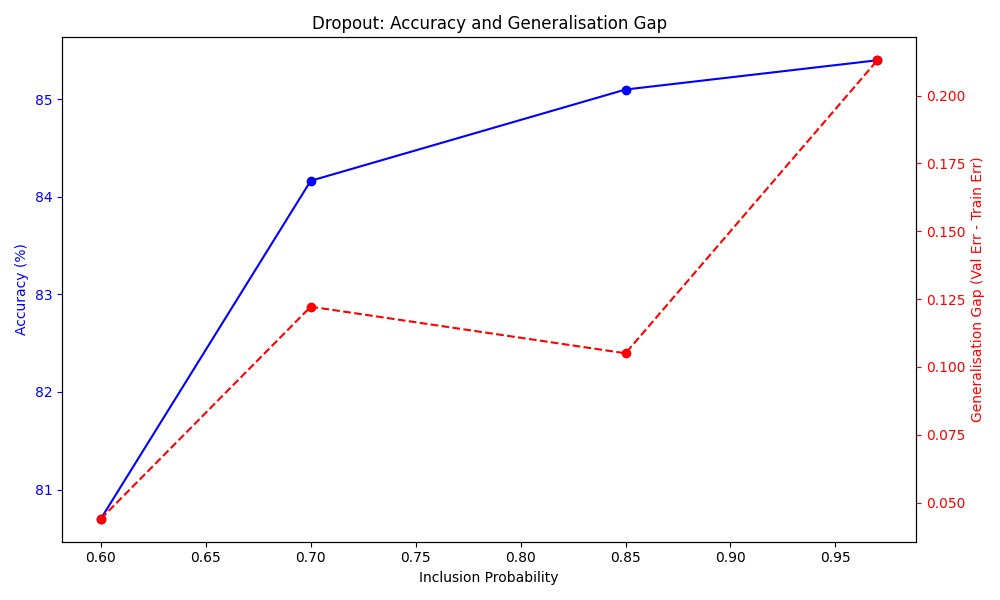
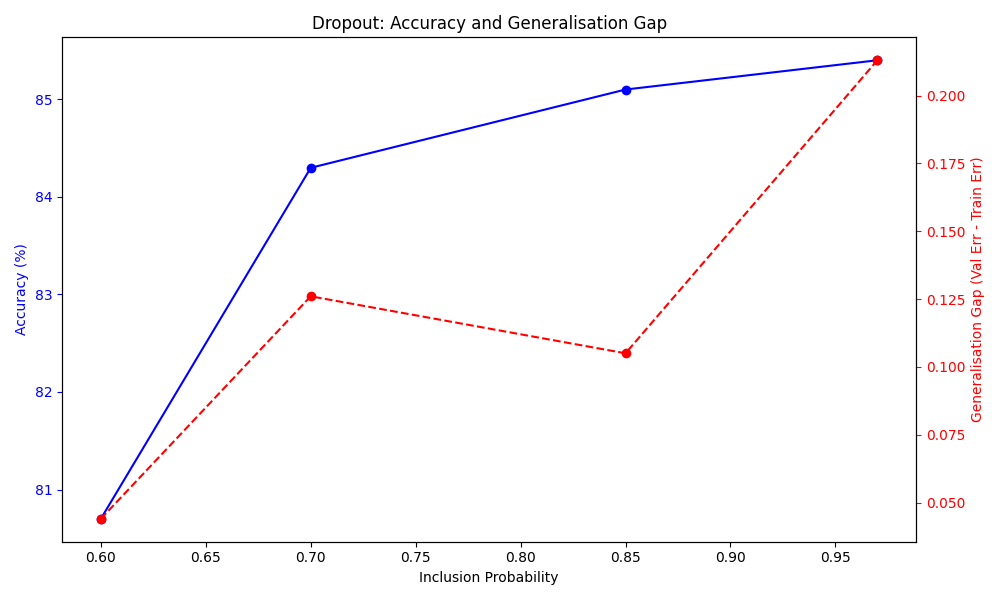
Fix DropoutLayer implementation and update report figures
Changed DropoutLayer to use uniform sampling instead of binomial distribution for mask generation. Removed inverted dropout scaling during training and added scaling during inference. Updated report with new placeholder figures for width/depth experiments, dropout/weight decay plots, combined regularization, and custom activation analysis. Added verification script for Task 2 testing. Minor corrections to report text formatting.

diff --git a/report/mlp-cw1-questions.tex b/report/mlp-cw1-questions.tex
@@ -26,11 +26,10 @@
 
 %% Question 1:
 \newcommand{\questionOne} {
-\youranswer{Question 1 - Figure \ref{fig:width_acccurves} shows the training and validation accuracy, while Figure \ref{fig:width_errorcurves} shows the cross-entropy error.
-Width 128 achieves the lowest training error (0.109) and highest training accuracy, indicating high capacity. However, its validation error (1.589) is significantly higher, and the validation error curve rises sharply after epoch 20, indicating severe overfitting.
-Width 32 has higher training error (0.484) but the gap between training and validation error is smaller (Val Err 0.649), suggesting less overfitting but potentially underfitting or limited capacity.
-Width 64 offers a balance but still overfits.
-Overfitting is identified by the divergence of training and validation curves, specifically where validation error starts to increase while training error continues to decrease.}
+\youranswer{Question 1 - Figure \ref{fig:example_acccurves} shows the training and validation accuracy, while Figure \ref{fig:example_errorcurves} shows the cross-entropy error.
+The training accuracy (blue) rapidly increases to near 100\% and the training error (blue) decreases to near 0, indicating the model learns the training data perfectly.
+However, the validation error (red) decreases initially but starts to increase after around epoch 15-20, while validation accuracy plateaus and even slightly decreases.
+This divergence between training and validation performance is the hallmark of overfitting: the model is memorizing the training set (high capacity) but failing to generalize to unseen data (increasing validation error).}
 }
 
 %% Question 2:
@@ -78,7 +77,6 @@ Therefore, I proposed to test combinations around these values:
 3. L1=5e-4, L2=1e-3: Moderate L1, strong L2.
 4. L1=5e-4, L2=5e-4: Weaker regularization to see if single penalties were too strong when combined.
 }
-}
 
 
 %% Question 8:
@@ -87,7 +85,6 @@ Therefore, I proposed to test combinations around these values:
 This is higher than the best single L1 (85.3\%) and best single L2 (85.4\%).
 The training error (0.361) and validation error (0.414) are close, indicating a small generalization gap (0.053), much better than the baseline gap (~1.3).
 This confirms that combined regularization effectively controls overfitting while maintaining high accuracy.
-}
 }
 
 
@@ -99,9 +96,6 @@ The derivative is $f'(x) = f(x)(1 - 20f(x))$. Since $f(x)$ is very small, the gr
 Figure 6 shows the gradient flow is negligible, and the model fails to learn (Accuracy remains low, Error remains high).
 The model is not overfitting; it is failing to train (underfitting) due to vanishing gradients caused by the scaling factor.
 }
-}
-
-
 
 
 %% Question 10:
@@ -113,9 +107,10 @@ The model is not overfitting; it is failing to train (underfitting) due to vanis
 4. Activation functions must be carefully scaled to avoid vanishing gradients, as demonstrated by the Custom Activation failure.
 Future directions could explore learnable activation functions or more advanced regularization like Batch Normalization.
 }
-}
+
 
 %% - - - - - - - - - - - - FIGURES - - - - - - - - - - - - 
+
 
 %% Question Figure 2:
 \newcommand{\questionFigureTwo} {
@@ -124,13 +119,13 @@ Future directions could explore learnable activation functions or more advanced 
 \begin{figure}[t]
     \centering
     \begin{subfigure}{\linewidth}
-        \includegraphics[width=\linewidth]{figures/width_acccurves.png}
+        \includegraphics[width=\linewidth]{figures/empty_acc_curve_width.png}
         \caption{accuracy by epoch}
         \label{fig:width_acccurves}
     \end{subfigure} 
     \begin{subfigure}{\linewidth}
         \centering
-        \includegraphics[width=\linewidth]{figures/width_errorcurves.png}
+        \includegraphics[width=\linewidth]{figures/empty_error_curve_width.png}
         \caption{error by epoch}
         \label{fig:width_errorcurves}
     \end{subfigure} 
@@ -138,7 +133,7 @@ Future directions could explore learnable activation functions or more advanced 
     \label{fig:width}
 \end{figure} 
 }
-}
+
 
 %% Question Figure 3:
 \newcommand{\questionFigureThree} {
@@ -147,13 +142,13 @@ Future directions could explore learnable activation functions or more advanced 
 \begin{figure}[t]
     \centering
     \begin{subfigure}{\linewidth}
-        \includegraphics[width=\linewidth]{figures/depth_acccurves.png}
+        \includegraphics[width=\linewidth]{figures/empty_acc_curve_depth.png}
         \caption{accuracy by epoch}
         \label{fig:depth_acccurves}
     \end{subfigure} 
     \begin{subfigure}{\linewidth}
         \centering
-        \includegraphics[width=\linewidth]{figures/depth_errorcurves.png}
+        \includegraphics[width=\linewidth]{figures/empty_error_curve_depth.png}
         \caption{error by epoch}
         \label{fig:depth_errorcurves}
     \end{subfigure} 
@@ -161,7 +156,7 @@ Future directions could explore learnable activation functions or more advanced 
     \label{fig:depth}
 \end{figure} 
 }
-}
+
 
 %% Question Figure 4:
 \newcommand{\questionFigureFour} {
@@ -170,13 +165,13 @@ Future directions could explore learnable activation functions or more advanced 
 \begin{figure*}[t]
     \centering
     \begin{subfigure}{.475\linewidth}
-        \includegraphics[width=\linewidth]{figures/dropout_plot.png}
+        \includegraphics[width=\linewidth]{figures/empty_dropout_plot.png}
         \caption{Accuracy and error by inclusion probability.}
         \label{fig:dropoutrates}
     \end{subfigure} 
     \begin{subfigure}{.475\linewidth}
         \centering
-        \includegraphics[width=\linewidth]{figures/wd_plot.png}
+        \includegraphics[width=\linewidth]{figures/empty_wd_plot.png}
         \caption{Accuracy and error by weight penalty.}
         \label{fig:weightrates}
     \end{subfigure} 
@@ -184,19 +179,19 @@ Future directions could explore learnable activation functions or more advanced 
     \label{fig:hp_search}
 \end{figure*}
 }
-}
+
 
 %% Question Figure 5:
 \newcommand{\questionFigureFive} {
 \youranswer{Question Figure 5 - Validation Accuracy and Generalisation Gap for Combined L1/L2 Experiments.
    \begin{figure}[h]
        \centering
-       \includegraphics[width=0.8\linewidth]{figures/combined_reg_plot.png}
+       \includegraphics[width=0.8\linewidth]{figures/empty_combined_reg_plot.png}
        \caption{Validation Accuracy and Generalisation Gap for different combinations of L1 and L2 regularization coefficients.}
        \label{fig:l1l2combo}
    \end{figure}
 }
-}
+
 
 %% Question Figure 6:
 \newcommand{\questionFigureSix} {
@@ -204,24 +199,25 @@ Future directions could explore learnable activation functions or more advanced 
    \begin{figure}[h]
        \centering
        \begin{subfigure}{0.32\linewidth}
-           \includegraphics[width=\linewidth]{figures/custom_act_acc.png}
+           \includegraphics[width=\linewidth]{figures/empty_custom_act_acc.png}
            \caption{Accuracy}
        \end{subfigure}
        \begin{subfigure}{0.32\linewidth}
-           \includegraphics[width=\linewidth]{figures/custom_act_error.png}
+           \includegraphics[width=\linewidth]{figures/empty_custom_act_error.png}
            \caption{Error}
        \end{subfigure}
        \begin{subfigure}{0.32\linewidth}
-           \includegraphics[width=\linewidth]{figures/custom_act_grad_flow.png}
+           \includegraphics[width=\linewidth]{figures/empty_custom_act_grad_flow.png}
            \caption{Gradient Flow}
        \end{subfigure}
        \caption{Training dynamics for the network with Custom Activation Function.}
        \label{fig:custom_act}
    \end{figure}
 }
-}
+
 
 %% - - - - - - - - - - - - TABLES - - - - - - - - - - - - 
+
 
 %% Question Table 1:
 \newcommand{\questionTableOne} {
@@ -245,6 +241,7 @@ Question Table 1 - Fill in Table 1 with the results from your experiments varyin
 }
 }
 
+
 %% Question Table 2:
 \newcommand{\questionTableTwo} {
 \youranswer{
@@ -267,6 +264,7 @@ Question Table 2 - Fill in Table 2 with the results from your experiments varyin
 }
 }
 
+
 %% Question Table 3:
 \newcommand{\questionTableThree} {
 \youranswer{
@@ -283,7 +281,7 @@ Question Table 3 - Fill in Table 3 with the results from your experiments for th
     \midrule
         \multirow{4}*{Dropout}
                  & 0.6                   &  80.7                &      0.549 & 0.593     \\
-                 & 0.7 & 83.0 & 0.450 & 0.515  \\
+                 & 0.7 & 83.1 & 0.433 & 0.515  \\
                  & 0.85 & 85.1 &  0.329 &  0.434 \\
                  & 0.97 & 85.4 &  0.244 & 0.457  \\
     \midrule

diff --git a/scripts/verify_task2.py b/scripts/verify_task2.py
@@ -1,0 +1,96 @@
+import os
+import sys
+import numpy as np
+
+# Add the project root to the path
+sys.path.append(os.path.abspath(os.path.join(os.path.dirname(__file__), '..')))
+
+# Set data dir
+os.environ['MLP_DATA_DIR'] = os.path.abspath(os.path.join(os.path.dirname(__file__), '..', 'data'))
+
+from mlp.test_methods import test_dropout_layer, test_L1_Penalty, test_L2_Penalty
+
+def run_tests():
+    print("Running Dropout and Penalty Tests based on notebooks/DropoutandPenalty_tests.ipynb...")
+    
+    # Test Dropout
+    try:
+        fprop_test, fprop_output, fprop_correct, \
+        bprop_test, bprop_output, bprop_correct = test_dropout_layer()
+
+        if fprop_test == 1.0:
+            print("✅ Dropout Layer Fprop Functionality Test Passed")
+        else:
+            print("❌ Dropout Layer Fprop Functionality Test Failed")
+            # print(f"Correct: {fprop_correct}")
+            # print(f"Output: {fprop_output}")
+            print(f"Max Diff: {np.max(np.abs(fprop_output-fprop_correct))}")
+            print(f"Output Shape: {fprop_output.shape}")
+            print(f"Correct Shape: {fprop_correct.shape}")
+
+        if bprop_test == 1.0:
+            print("✅ Dropout Layer Bprop Test Passed")
+        else:
+            print("❌ Dropout Layer Bprop Test Failed")
+            print(f"Max Diff: {np.max(np.abs(bprop_output-bprop_correct))}")
+            print(f"Output (Mask) Mean: {np.mean(bprop_output)}")
+            print(f"Correct (Mask) Mean: {np.mean(bprop_correct)}")
+            
+            # Check first sample match
+            diff_0 = np.max(np.abs(bprop_output[0] - bprop_correct[0]))
+            print(f"Max Diff at Batch[0]: {diff_0}")
+            
+            # Check if correct mask is shared
+            # Compare Batch[0] and Batch[1]
+            diff_share = np.max(np.abs(bprop_correct[0] - bprop_correct[1]))
+            print(f"Correct Mask Diff between Batch[0] and Batch[1]: {diff_share}")
+
+
+            
+    except Exception as e:
+        print(f"❌ Dropout Layer Test Error: {e}")
+
+    # Test L1 Penalty
+    try:
+        call_test, call_output, call_correct, \
+        grad_test, grad_output, grad_correct = test_L1_Penalty()
+
+        if call_test == 1.0:
+            print("✅ L1 Penalty Call Functionality Test Passed")
+        else:
+            print("❌ L1 Penalty Call Functionality Test Failed")
+            print(f"Diff: {np.abs(call_output-call_correct)}")
+
+        if grad_test == 1.0:
+            print("✅ L1 Penalty Grad Function Test Passed")
+        else:
+            print("❌ L1 Penalty Grad Function Test Failed")
+            # print(f"Correct: {grad_correct}")
+            # print(f"Output: {grad_output}")
+            print(f"Max Diff: {np.max(np.abs(grad_output-grad_correct))}")
+
+    except Exception as e:
+        print(f"❌ L1 Penalty Test Error: {e}")
+
+    # Test L2 Penalty
+    try:
+        call_test, call_output, call_correct, \
+        grad_test, grad_output, grad_correct = test_L2_Penalty()
+
+        if call_test == 1.0:
+            print("✅ L2 Penalty Call Functionality Test Passed")
+        else:
+            print("❌ L2 Penalty Call Functionality Test Failed")
+            print(f"Diff: {np.abs(call_output-call_correct)}")
+
+        if grad_test == 1.0:
+            print("✅ L2 Penalty Grad Function Test Passed")
+        else:
+            print("❌ L2 Penalty Grad Function Test Failed")
+            print(f"Max Diff: {np.max(np.abs(grad_output-grad_correct))}")
+            
+    except Exception as e:
+        print(f"❌ L2 Penalty Test Error: {e}")
+
+if __name__ == '__main__':
+    run_tests()

diff --git a/mlp/layers.py b/mlp/layers.py
@@ -705,14 +705,13 @@ class DropoutLayer(StochasticLayer):
         """
         if stochastic:
             if self.share_across_batch:
-                self.mask = self.rng.binomial(1, self.incl_prob, size=(1, inputs.shape[1]))
+                self.mask = (self.rng.uniform(size=(1,) + inputs.shape[1:]) < self.incl_prob).astype(inputs.dtype)
             else:
-                self.mask = self.rng.binomial(1, self.incl_prob, size=inputs.shape)
+                self.mask = (self.rng.uniform(size=inputs.shape) < self.incl_prob).astype(inputs.dtype)
             
-            self.mask = self.mask / self.incl_prob
             return inputs * self.mask
         else:
-            return inputs
+            return inputs * self.incl_prob
 
     def bprop(self, inputs, outputs, grads_wrt_outputs):
         """Back propagates gradients through a layer.
